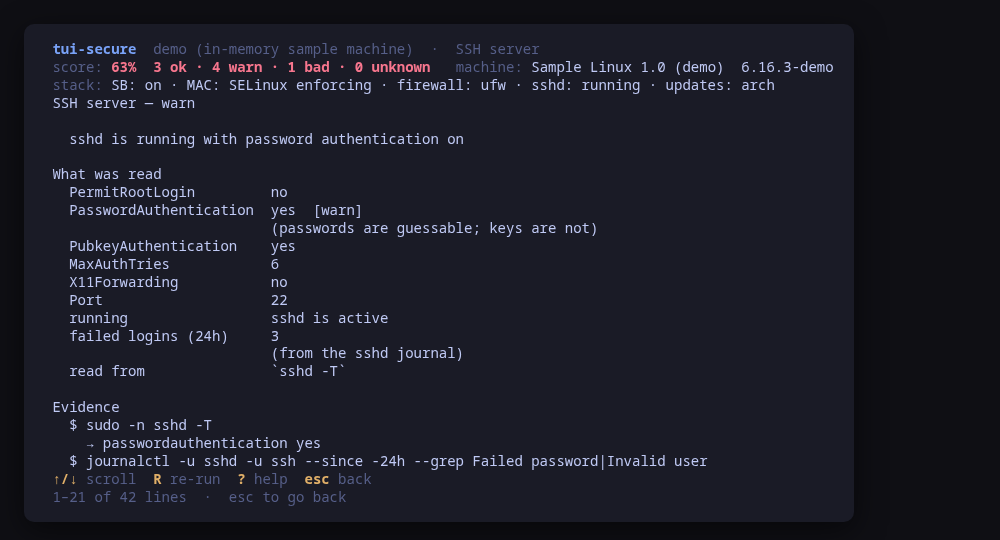
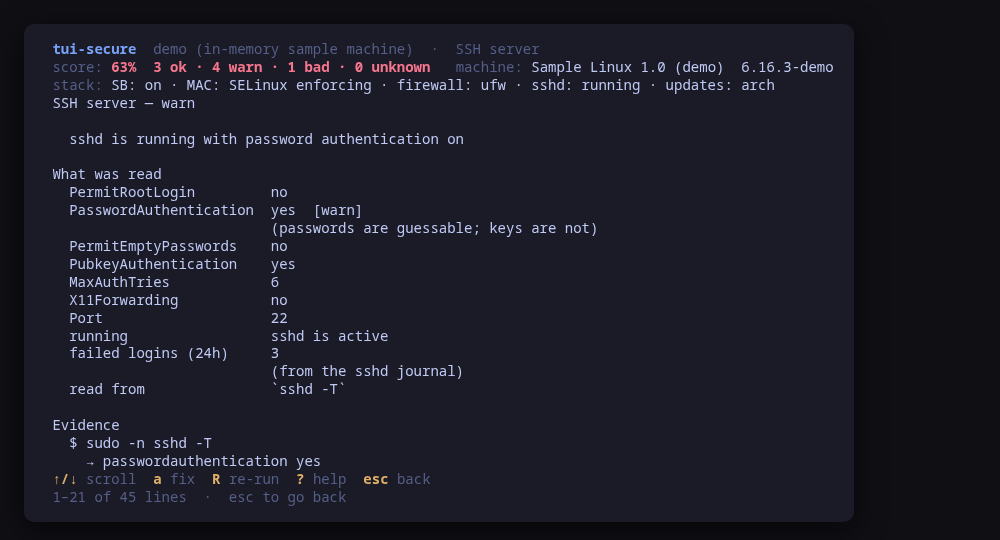
Document the wider set of fixes, and what they refuse
The README and the manifest still said "three fixes", which was true until
the commit before this one. They now name the whole set, and give the
refusals a section of their own: a reader deciding whether to trust this
tool with sshd deserves to know, before running it, that turning passwords
off on a machine with no key anywhere is a thing it will not do.

The smoke test now checks both drop-ins are absent after a read-only run,
not just the sysctl one. The main and sshd screenshots are re-rendered:
the sshd probe grades PermitEmptyPasswords now, so the frame was stale.

Claude-Session: https://claude.ai/code/session_01MCypLQF5AD8JD831Ea9S9q

Changed region(s): [[0.031, 0.4444, 0.713, 0.9185], [0.279, 0.563, 0.465, 0.7407]]

diff --git a/cmd/tui-secure/main.go b/cmd/tui-secure/main.go
@@ -1,8 +1,8 @@
 // Command tui-secure is a terminal UI for the security posture of one Linux
 // machine: Secure Boot, the MAC layer, the firewall, sshd, pending updates,
 // accounts, kernel hardening and listening ports. Each probe shows the command
-// behind its verdict, and the three fixes it offers are previewed as an exact
-// command line before they run.
+// behind its verdict, and every fix it offers is previewed as an exact command
+// line before it runs.
 package main
 
 import (

diff --git a/README.md b/README.md
@@ -206,12 +206,12 @@ trust, and this tool would rather be argued with.
 | --- | --- | --- |
 | **Secure Boot** | `bootctl status`, and `sbctl status` where sbctl is installed | `ok` enabled · `warn` off · `bad` firmware in setup mode · `unknown` no EFI |
 | **Access control** | `getenforce` and `sestatus`, or `aa-status --json`; denials from `journalctl -k`, or `ausearch -m avc` where auditd runs | `ok` enforcing · `warn` permissive, complain-only, disabled, or no MAC layer at all |
-| **Firewall** | `ufw status verbose`, or `firewall-cmd --state` and its default zone, or the `nft` ruleset | `ok` active · `warn` a permissive default · `bad` installed and off, or nothing at all |
-| **SSH server** | `sshd -T`, falling back to `sshd_config` and its drop-ins; `systemctl is-active`; failed logins from the journal | `bad` root login with a password · `warn` passwords on, keys off, MaxAuthTries high, X11 forwarding on |
+| **Firewall** | `ufw status verbose`, or `firewall-cmd --state` and its default zone, or the `nft` ruleset and the file `nftables.service` would load | `ok` active · `warn` a permissive default · `bad` installed and off, or nothing at all |
+| **SSH server** | `sshd -T`, falling back to `sshd_config` and its drop-ins; `systemctl is-active`; failed logins from the journal | `bad` root login with a password, empty passwords permitted · `warn` passwords on, keys off, MaxAuthTries high, X11 forwarding on |
 | **Updates** | `checkupdates` / `pacman -Qu`, `apt-get -s upgrade`, `dnf check-update`; whether a reboot is owed; the unattended update timer | `ok` nothing pending · `warn` updates waiting, a reboot owed, or no timer enabled |
 | **Accounts** | `/etc/passwd` for UID 0, `/etc/shadow` for empty passwords, `sudo -n -l` for NOPASSWD | `bad` a second root or an empty password · `warn` passwordless sudo · `unknown` /etc/shadow needs root |
 | **Kernel hardening** | `sysctl -n` for `kernel.kptr_restrict`, `kernel.dmesg_restrict`, `fs.protected_*`, `fs.suid_dumpable`, `net.ipv4.ip_forward` and `kernel.core_pattern` | `ok` the basics are set · `warn` a key below the recommended value |
-| **Listening ports** | `ss -tulpnH`, with the process behind each socket | `ok` everything on loopback · `warn` sockets reachable from the network |
+| **Listening ports** | `ss -tulpnH`, with the process behind each socket and the unit it belongs to, read from `/proc/<pid>/cgroup` | `ok` everything on loopback · `warn` sockets reachable from the network |
 
 The score in the header is the weighted count: an `ok` counts whole, a `warn`
 counts half, a `bad` counts nothing. An `unknown` is counted and not weighed —
@@ -221,26 +221,52 @@ scoring a question nobody could answer would be inventing a verdict.
 
 ![Pending updates](docs/screenshots/tui-secure-updates.png)
 
-`tui-secure` measures. It changes three things, and names the owner of
-everything else: the firewall is `tui-firewall`'s, accounts are `tui-users`'s,
-`sshd_config` is `tui-ssh`'s, applying updates is `tui-update`'s. Where no tool
-owns it yet, the probe shows the command to run by hand.
+`tui-secure` measures, and it fixes the findings whose right answer is the same
+on every machine. Everything else names its owner: the whole of `sshd_config`
+is `tui-ssh`'s, accounts are `tui-users`'s, rule-by-rule firewall work is
+`tui-firewall`'s, applying updates is `tui-update`'s. Where no tool owns it yet,
+the probe shows the command to run by hand.
 
-The three it will run itself are the safe one-liners, and each is previewed as
-an exact command line and confirmed first:
+What it will run itself are the one-liners it can preview in full, and each is
+shown as an exact command line and confirmed first:
 
 | Key | What runs |
 | --- | --- |
-| `a` on the firewall probe | `ufw enable` |
+| `a` on the firewall probe | `ufw enable`, or `systemctl enable --now firewalld`, or `systemctl enable --now nftables` — whichever firewall this machine actually has |
+| `a` on the SSH probe | `sshd -t -f <staged drop-in>`, then `install -m 600 <it> /etc/ssh/sshd_config.d/50-tui-secure.conf`, then `systemctl reload sshd` |
 | `a` on the kernel probe | `install -m 644 <staged drop-in> /etc/sysctl.d/90-tui-secure.conf`, then `sysctl -w <key>=<value>` |
 | `a` on the updates probe | `systemctl enable --now <the distribution's update timer>` |
+| `a` on the ports probe | `systemctl disable --now <the unit behind the port>` |
 
 ![Setting one hardening key](docs/screenshots/tui-secure-fix.png)
 
 `y` runs the commands shown, `n` does not. There is no other path to a change:
 the UI hands the same values to the preview and to the runner, so what you read
-is what executes. The drop-in is written to a private temporary directory
-first, shown in full, and only the `install` you approved puts it in `/etc`.
+is what executes. Both drop-ins are written to a private temporary directory
+first, shown in full, and only the `install` you approved puts one in `/etc`.
+
+### The changes it refuses
+
+A fix that can lock you out of your own machine is worse than no fix, so some
+changes are refused rather than warned about:
+
+- **Turning off password authentication with no key anywhere.** Before the sshd
+  plan is built, the accounts in `/etc/passwd` are walked for an
+  `authorized_keys` with something in it. If none has one — or if the only one
+  that does is `root` and `PermitRootLogin` is going to `no` at the same time —
+  the change is refused, and the message says why. A home directory that could
+  not be *read* is not an account without a key: those are listed on the dialog
+  instead, because inventing the answer in either direction would be worse than
+  naming what could not be looked into.
+- **Turning off both authentication methods.** `PasswordAuthentication no` with
+  `PubkeyAuthentication no` is a server nothing can log in to at all.
+- **Enabling `nftables.service` with no ruleset to load.** The unit is a loader
+  for `/etc/nftables.conf` (or `/etc/sysconfig/nftables.conf`). Without that
+  file, or with one `nft -c -f` will not parse, the action is refused: a service
+  that comes up and filters nothing looks like a fix and is not one.
+
+The ssh server is also never offered as something to stop, whatever port the
+ports probe finds it on.
 
 ## `sudo -n`, or `unknown`
 
@@ -376,7 +402,9 @@ The bug form asks for this block first — see
   prompt.
 - Score the machine, and name the stack it found: Secure Boot, MAC layer,
   firewall backend, sshd and update manager.
-- Offer three fixes, previewed as exact command lines and confirmed first.
+- Offer a fix for every finding whose right answer is the same on every
+  machine, previewed as an exact command line and confirmed first — and refuse
+  the ones that would leave nothing able to log in.
 - Re-run one probe or all of them, and filter across every field.
 - Print the whole posture as JSON for a script or a test.
 - Follow the active Omarchy theme, and respect `NO_COLOR`.
@@ -516,7 +544,7 @@ program through a kit runner, and
 [`check-exec.sh`](https://github.com/tui-tools/tui-kit/blob/main/tools/check-exec.sh)
 fails the build if any other package imports `os/exec`.
 
-The three fixes are `runner.Command` values produced by the backend. The UI
+The fixes are `runner.Command` values produced by the backend. The UI
 shows them and, on confirmation, hands the same ones back to the
 [kit runner](https://github.com/tui-tools/tui-kit#the-contract-preview-confirm-run),
 which resolves the binary and the privilege prefix. That is the whole trust
@@ -549,6 +577,17 @@ widgets, the config loader and the command runner shared by the whole family.
 - The `/etc/sysctl.d/90-tui-secure.conf` drop-in is this tool's own file, and
   each line in it was agreed to once. Setting a second key keeps the first;
   removing a line and running `sudo sysctl --system` undoes it.
+- `/etc/ssh/sshd_config.d/50-tui-secure.conf` is this tool's own file too, and
+  it is regenerated in full on every change: a keyword agreed to earlier
+  survives, a keyword this tool does not own is not carried forward. It is
+  checked with `sshd -t -f` before it is installed, so a file the server would
+  refuse never reaches `/etc`. Deleting a line and running
+  `sudo systemctl reload sshd` undoes it. sshd takes the *first* value it is
+  given for a keyword, so when a drop-in sorting earlier already sets one, the
+  dialog names that file instead of quietly doing nothing.
+- Stopping the unit behind a listening port is a decision about what the
+  machine is for, not a hardening default: it is offered, never suggested, and
+  never for the ssh server.
 - The accounts probe reads `/etc/shadow` when it can. It keeps the count and
   the account names, never the hashes: nothing from that file reaches the
   screen, the `--check` output or a log.
